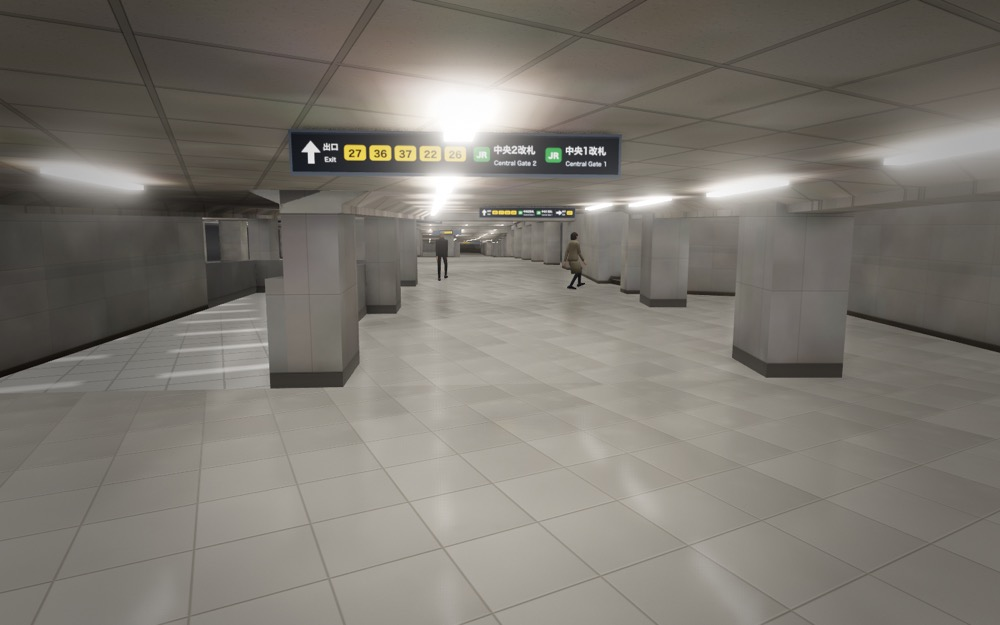
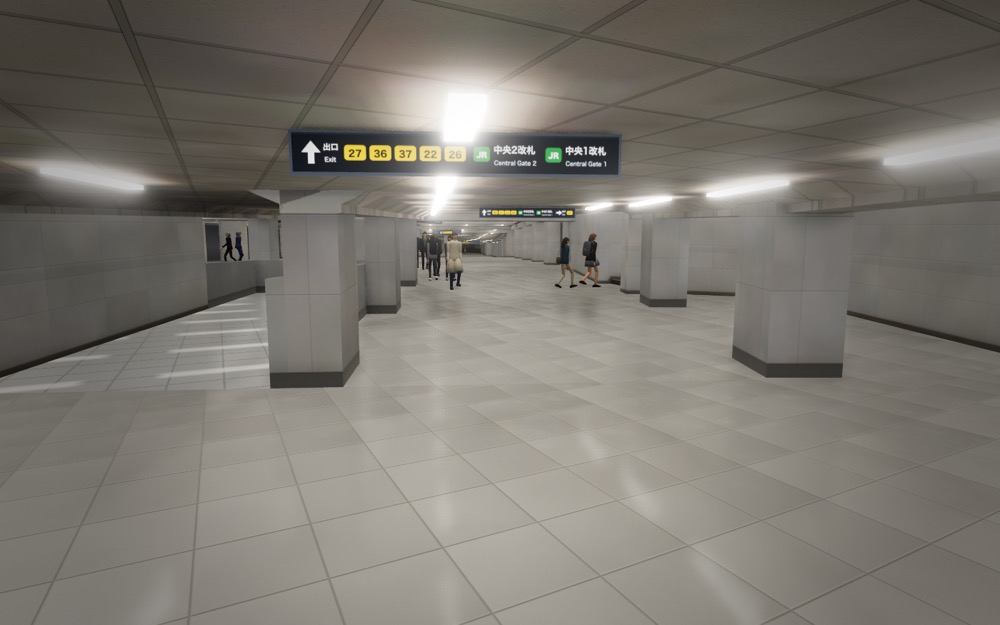
fix(ikebukuro): lightmap balance uses a soft knee so nothing crosses bloom
The flat 2x lightmap gain pushed wall and ceiling areas under the
fixtures to ~1.7 linear, over the explorer's 1.0 bloom threshold. The
balance now lives in the lit shader (lightmapped path only): dark baked
diffuse gets the full gain, tapering so boosted diffuse never exceeds 0.85
linear; surfaces the bake already made brighter keep their own value.

diff --git a/stations/ikebukuro/scene/materials.ts b/stations/ikebukuro/scene/materials.ts
@@ -270,8 +270,20 @@ vec2 gtSeam(float c, float P, float w, float depth, float fw) {
 }
 `;
 
-const glslReliefEnd = (relief: number) => /* glsl */ `
+/** Boosted baked diffuse is capped here (linear), below the explorer's bloom threshold of 1.0. */
+const BALANCE_KNEE = 0.85;
+const glslReliefEnd = (relief: number, gain = 1) => /* glsl */ `
 #include <lights_fragment_end>
+${gain === 1 ? "" : `#ifdef USE_LIGHTMAP
+{
+  // Lightmap balance with a soft knee: dark baked light gets the full gain, which tapers so the boost never
+  // lifts diffuse past the knee; anything the bake already made brighter keeps its own value.
+  const float G = ${gain.toFixed(3)}, K = ${BALANCE_KNEE.toFixed(3)};
+  float gtL0 = dot(reflectedLight.indirectDiffuse, vec3(0.2126, 0.7152, 0.0722));
+  float gtL1 = max(gtL0, G * gtL0 / (1.0 + (G - 1.0) * gtL0 / K));
+  reflectedLight.indirectDiffuse *= gtL1 / max(gtL0, 1e-5);
+}
+#endif`}
 {
   vec3 gtUp = normalize(viewMatrix[1].xyz);
   vec3 gtL = normalize(gtUp * 0.75 + vec3(0.25, 0.0, 0.65));
@@ -411,6 +423,7 @@ type Kind = "floor" | "wall" | "column" | "ceiling" | "stairs";
 
 function patchLit(m: THREE_NS.MeshStandardMaterial, kind: Kind, relief: number, clad?: CladSpec) {
   const isClad = kind === "wall" || kind === "column";
+  const gain = LIGHTMAP_BALANCE[kind === "column" ? "barriers" : kind] ?? 1;
   const isStair = kind === "stairs";
   const vHead = `varying vec3 vWP;
 ${isClad ? "attribute float aFloorY;\nvarying vec2 vPanelUv;\nvarying float vFloorOk;\nvarying float vVert;" : ""}
@@ -431,9 +444,9 @@ ${isStair ? "vNose = aNose;\nvVert = 1.0 - step(0.5, abs(normal.y));" : ""}`;
     sh.fragmentShader = sh.fragmentShader
       .replace("#include <common>", `#include <common>\n${fHead}`)
       .replace("#include <normal_fragment_maps>", `#include <normal_fragment_maps>\n${fBody}`)
-      .replace("#include <lights_fragment_end>", glslReliefEnd(relief));
+      .replace("#include <lights_fragment_end>", glslReliefEnd(relief, gain));
   };
-  m.customProgramCacheKey = () => `gteki-ikebukuro-${kind}-1`;
+  m.customProgramCacheKey = () => `gteki-ikebukuro-${kind}-2`;
 }
 
 const WALL_CLAD: CladSpec = {
@@ -451,7 +464,8 @@ const COLUMN_CLAD: CladSpec = {
 /**
  * Baked-light balance per role (multiplies the lightmap intensity). The bake lights mostly the floor under
  * the downlights; real passages read bright because enamel walls, cladding and ceiling panels get wall-wash
- * and floor bounce the bake underestimates. Presentation only; the floor (and with it exposure) is unchanged.
+ * and floor bounce the bake underestimates. Applied in the lit shader with a soft knee (BALANCE_KNEE), so no
+ * boosted surface crosses the bloom threshold. Presentation only; the floor (and with it exposure) is unchanged.
  */
 export const LIGHTMAP_BALANCE: Record<string, number> = { wall: 2.0, barriers: 1.9, ceiling: 2.0 };
 
@@ -622,7 +636,6 @@ export function createMaterials(THREE: ThreeNS, mobile: boolean): StationMateria
   const ceiling = std({ map: ceilMap, normalMap: ceilNormal, roughness: 0.95, side: THREE.DoubleSide });
   const stairs = std({ map: stairMap, normalMap: stairNormal, roughness: 0.7 });
   const barriers = std({ color: 0xc6cacf, roughness: 0.3, metalness: 0, side: THREE.DoubleSide });
-  for (const [m, role] of [[wall, "wall"], [barriers, "barriers"], [ceiling, "ceiling"]] as const) m.userData.lightmapBalance = LIGHTMAP_BALANCE[role];
   patchLit(floor, "floor", 0.9);
   patchLit(wall, "wall", 0.9, WALL_CLAD);
   patchLit(ceiling, "ceiling", 0.6);
@@ -653,7 +666,7 @@ export function createMaterials(THREE: ThreeNS, mobile: boolean): StationMateria
     setLightmap(t, intensity) {
       for (const m of lit) {
         m.lightMap = t;
-        m.lightMapIntensity = intensity * ((m.userData.lightmapBalance as number | undefined) ?? 1);
+        m.lightMapIntensity = intensity;
         m.needsUpdate = true;
       }
     },
